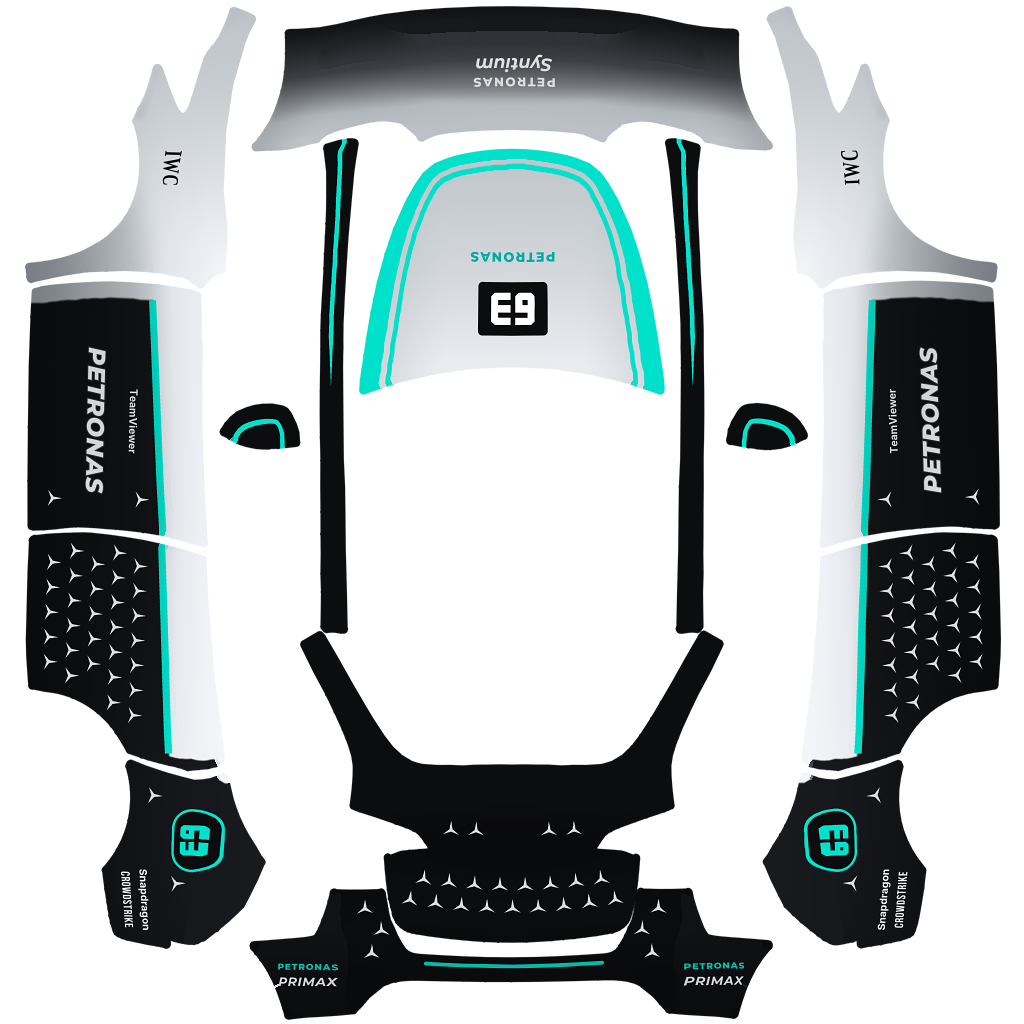
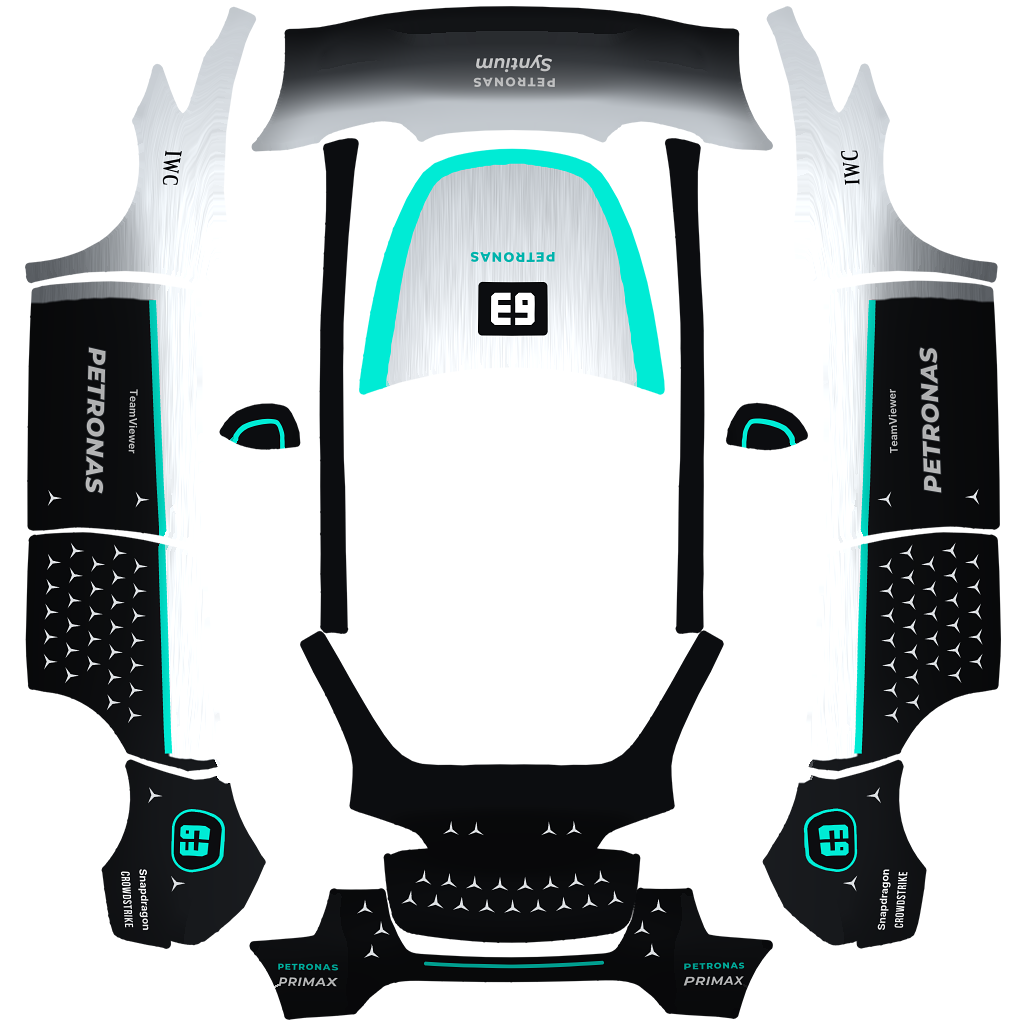
Stronger brushed-metal silver, single wider hood stripe, no A-pillar line, no white door panel on C
Claude-Session: https://claude.ai/code/session_01BfTDjqUfM4U8BnEC3d7TYF

diff --git a/tools/designs/w16_common.py b/tools/designs/w16_common.py
@@ -34,7 +34,7 @@ BUMPER_LOW = "#131518"
 # tone with the broad shape of the body (wrapkit/finish.py, Tonal), with no
 # lines on creases.  The wrap stays fully opaque - a translucent wrap would
 # let the car's own paint colour show through.
-FINISH = tonal(1.0)
+FINISH = tonal(1.0, lo=0.70, hi=1.12, soft=30.0)
 
 # ---- fonts ----------------------------------------------------------------
 F_WORD = "Montserrat-ExtraBold.otf"       # PETRONAS-style wide bold caps
@@ -177,13 +177,24 @@ def rail_x(side_x):
 # ---- base paint -------------------------------------------------------------
 # layered silver on the side canvases, by height (canvas Y): bright along the
 # top of the body, a little deeper over the door faces, darkest at the sills
-SIDE_TONES = [(96, "#E3E6E9"), (150, "#D1D5D9"), (180, "#C2C7CC"), (218, "#AFB5BB"), (252, "#9DA3AA"), (288, "#8E949B")]
+SIDE_TONES = [(96, "#EEF0F2"), (140, "#DDE1E4"), (175, "#C4C9CE"), (215, "#A7ADB3"), (250, "#8E949B"), (288, "#7B8188")]
+
+
+def brushed(c: Canvas, amount: float = 0.035, along: str = "x", seed: int = 7):
+    """(H, W, 1) multiplier: fine streaks running along the car, like brushed
+    aluminium - a faint grain that makes flat silver read as metal."""
+    rng = np.random.default_rng(seed)
+    n = rng.standard_normal((c.H, c.W)).astype(np.float32)
+    sig = (0.6, 40.0) if along == "x" else (40.0, 0.6)
+    n = ndi.gaussian_filter(n, sig)
+    n /= max(float(n.std()), 1e-6)
+    return (1.0 + amount * np.clip(n, -2.5, 2.5))[..., None]
 
 
 def silver_gradient(c: Canvas):
-    """Light-to-dark layers of silver down the body side - the metal look comes
-    from these tones rather than from painted reflections."""
-    return c.gradient_field(SIDE_TONES, axis="y")
+    """Light-to-dark layers of silver down the body side, with a brushed grain -
+    the metal look comes from these tones rather than from painted reflections."""
+    return c.gradient_field(SIDE_TONES, axis="y") * brushed(c)
 
 
 def bumper_gradient(c: Canvas, y0=0.0):
@@ -207,9 +218,10 @@ def hood_base(c: Canvas):
     """Silver hood in layers: bright at the windscreen and along the crown,
     deeper toward the nose and toward the side edges."""
     X, Y = c.grid()
-    c.paint(np.ones_like(X), c.gradient_field([(8, "#E2E5E8"), (c.h * 0.5, SILVER), (c.h - 10, NOSE)], axis="y"))
+    field = c.gradient_field([(8, "#EDEFF1"), (c.h * 0.5, "#C9CDD1"), (c.h - 10, "#A9AEB3")], axis="y")
+    c.paint(np.ones_like(X), field * brushed(c, along="y", seed=11))
     side = np.clip(np.abs(X - c.w / 2) / (c.w / 2), 0, 1)
-    c.paint(0.55 * smoothstep(0.35, 1.0, side), "#A3A9AF")
+    c.paint(0.65 * smoothstep(0.3, 1.0, side), "#8F959C")
 
 
 def hood_edge_bands(c: Canvas, inset, width, y0=2, y1=254):
@@ -240,13 +252,13 @@ def hood_edge_bands(c: Canvas, inset, width, y0=2, y1=254):
 
 
 def race_hood(c: Canvas, number: str):
-    """Hood of the preferred front: a broad teal stripe with a pinstripe inside
-    it along each hood edge, a black number plate up near the windscreen and a
+    """Hood of the preferred front: one broad teal stripe along the hood edges
+    and round the nose, a black number plate up near the windscreen and a
     small teal wordmark ahead of it; clear of the Tesla badge at the nose."""
     hood_base(c)
-    # broad stripe starting right at the hood edge (no white border), pinstripe inside it
-    c.paint(hood_edge_bands(c, -4, lambda y: float(np.interp(y, [14, 90, 240], [19, 19, 10]))), TEAL)
-    c.paint(hood_edge_bands(c, lambda y: float(np.interp(y, [14, 90, 240], [21, 21, 10])), 4.6, y1=244), TEAL)
+    # one broad stripe starting right at the hood edge (no white border); owner: a single
+    # stripe, a little wider than the old broad one
+    c.paint(hood_edge_bands(c, -4, lambda y: float(np.interp(y, [14, 90, 240], [26, 26, 14]))), TEAL)
     cx = c.w / 2 + 1
     c.stamp(block_plate(number, 52), cx, 96)
     c.stamp(wordmark("PETRONAS", 13, TEAL_DEEP, font=F_WORD, tracking=1.4), cx, 146)
@@ -543,7 +555,7 @@ class Mirrored:
         return {self.left_name: left.out(), self.right_name: right.out()}
 
 
-def black_rails(pillar_line=True, teal_foot=False) -> Mirrored:
+def black_rails(pillar_line=False, teal_foot=False) -> Mirrored:
     """Black A-pillars and roof rails.  pillar_line: a thin teal line up the
     middle of the A-pillar, to go with the black mirror cap and its teal line
     (it starts at the foot of the pillar, level with the mirror stripe, and

diff --git a/tools/designs/w16_c.py b/tools/designs/w16_c.py
@@ -34,9 +34,9 @@ def paint_sides() -> dict:
     star_field(c, 540, 990, 44, 290, 27, STAR_R_C, inner=0.2, colour=SILVER_HI, margin=1.5, opacity=STAR_ALPHA_C,
                where=in_dark(146.0))
 
-    # number panel
+    # number area: no white panel behind the lettering (owner's request) - the
+    # number and partner names sit straight on the silver, over a teal base line
     x0, y0, x1, y1 = PANEL
-    c.paint(c.mask_rect(x0, y0, x1, y1, radius=3), WHITE)
     c.paint(c.mask_rect(x0, y1 - 15, x1, y1, radius=0), TEAL)
     c.paint(c.mask_rect(x0, y1, x1, y1 + 3.5, radius=0), BLACK)
     # teal-over-black flash running forward from the panel across the fender

diff --git a/tools/designs/w16_d.py b/tools/designs/w16_d.py
@@ -45,11 +45,8 @@ def paint_sides() -> dict:
 
 
 def paint_rails() -> dict:
-    r = black_rails(pillar_line=False)
-    c = r.art
-    xs = np.linspace(14, c.w - 14, 60)
-    c.line([(x, float(rail_mid(x))) for x in xs], 2.6, TEAL)
-    return r.render()
+    # plain black: no teal on the A-pillars or roof rails (owner's request)
+    return black_rails().render()
 
 
 def paint_mirrors() -> dict:

diff --git a/modely/w16/README.md b/modely/w16/README.md
@@ -32,11 +32,11 @@ B 的三種車側變化（車頭車尾同 B）：**B2** [`W16_B2_Shoulder.png`](
 ### 所有版本共通
 
 * **不透明**：車皮完全不透明，車子原本的車漆顏色不會透出來，套在任何顏色的車上看起來都一樣。
-* **金屬質感從顏色來**：車機會把車皮當霧面貼膜打光，所以金屬感是畫進貼圖的，但不再在鈑金折線上畫亮線與反射（車頭看起來會怪）。改成銀色本身有明暗層次：車側由上往下從亮銀漸深到門檻，引擎蓋靠擋風玻璃與中央最亮、往車鼻與兩側邊緣漸深，前保桿由銀漸層到深色；再依車身大致的曲面加一層很柔和的明暗（朝天的面略亮、轉向地面的面略暗），沒有任何硬邊。
+* **金屬質感從顏色來**：車機會把車皮當霧面貼膜打光，所以金屬感是畫進貼圖的，但不再在鈑金折線上畫亮線與反射（車頭看起來會怪）。改成銀色本身有明暗層次（對比加強，並帶一層沿車身方向的細拉絲紋）：車側由上往下從亮銀漸深到門檻，引擎蓋靠擋風玻璃與中央最亮、往車鼻與兩側邊緣漸深，前保桿由銀漸層到深色；再依車身大致的曲面加一層很柔和的明暗（朝天的面略亮、轉向地面的面略暗），沒有任何硬邊。
 * **漸層**：有銀→黑漸層的版本，漸層都從前後門的接縫開始，前門保持全銀。
 * **三芒星**：同一款每顆星在車上的大小、角度、亮度都一樣，一角朝正上方（依 3D 模型逐顆修正透視與曲面，在 3D 模型上實測：大小差異約 1%、角度偏差 2° 以內）。星芒不再淡入淡出，也不受車身明暗影響：漸層只在車漆上，星芒從車漆夠暗（漸層走到六成）的地方開始整顆出現，避免灰底上的「半透明」星。碰到接縫、邊緣、彎曲或折回處（例如尾翼下緣）、側方向燈、斜度太大的肩線，以及文字的星會整顆略過；C 版車頂飾條上的小星已拿掉，避免出現不同大小的星。
-* **後視鏡與 A 柱**：後視鏡黑底加一圈水平青綠線（依 3D 模型高度畫、邊緣平滑）；A 柱黑色，中間一條細青綠線往上延伸到車頂前段（D 版是整條車頂飾條一條細線）。車頂飾條上沒有文字。
-* **引擎蓋綠條**：從引擎蓋邊緣直接開始，不留白邊；沿兩側與車鼻前緣連成一條等寬的 U 形，車鼻中央不斷開。
+* **後視鏡與 A 柱**：後視鏡黑底加一圈水平青綠線（依 3D 模型高度畫、邊緣平滑）；A 柱與車頂飾條全黑，沒有綠線也沒有文字。
+* **引擎蓋綠條**：從引擎蓋邊緣直接開始，不留白邊；只留一條加寬的綠條，沿兩側與車鼻前緣連成等寬的 U 形，車鼻中央不斷開。
 * **文字**：只保留贊助商（PETRONAS、IWC、TeamViewer、Snapdragon、CROWDSTRIKE 等），不放 AMG、Mercedes-Benz 等其他汽車品牌字樣。
 * **車尾**：尾燈之間的尾門橫帶沒有綠色裝飾，以星芒填滿；尾翼頂面與後擋風玻璃外框是朝天的面，從車後看星芒會像轉了方向，所以保持純黑；後保桿下方一條細綠線。
 
